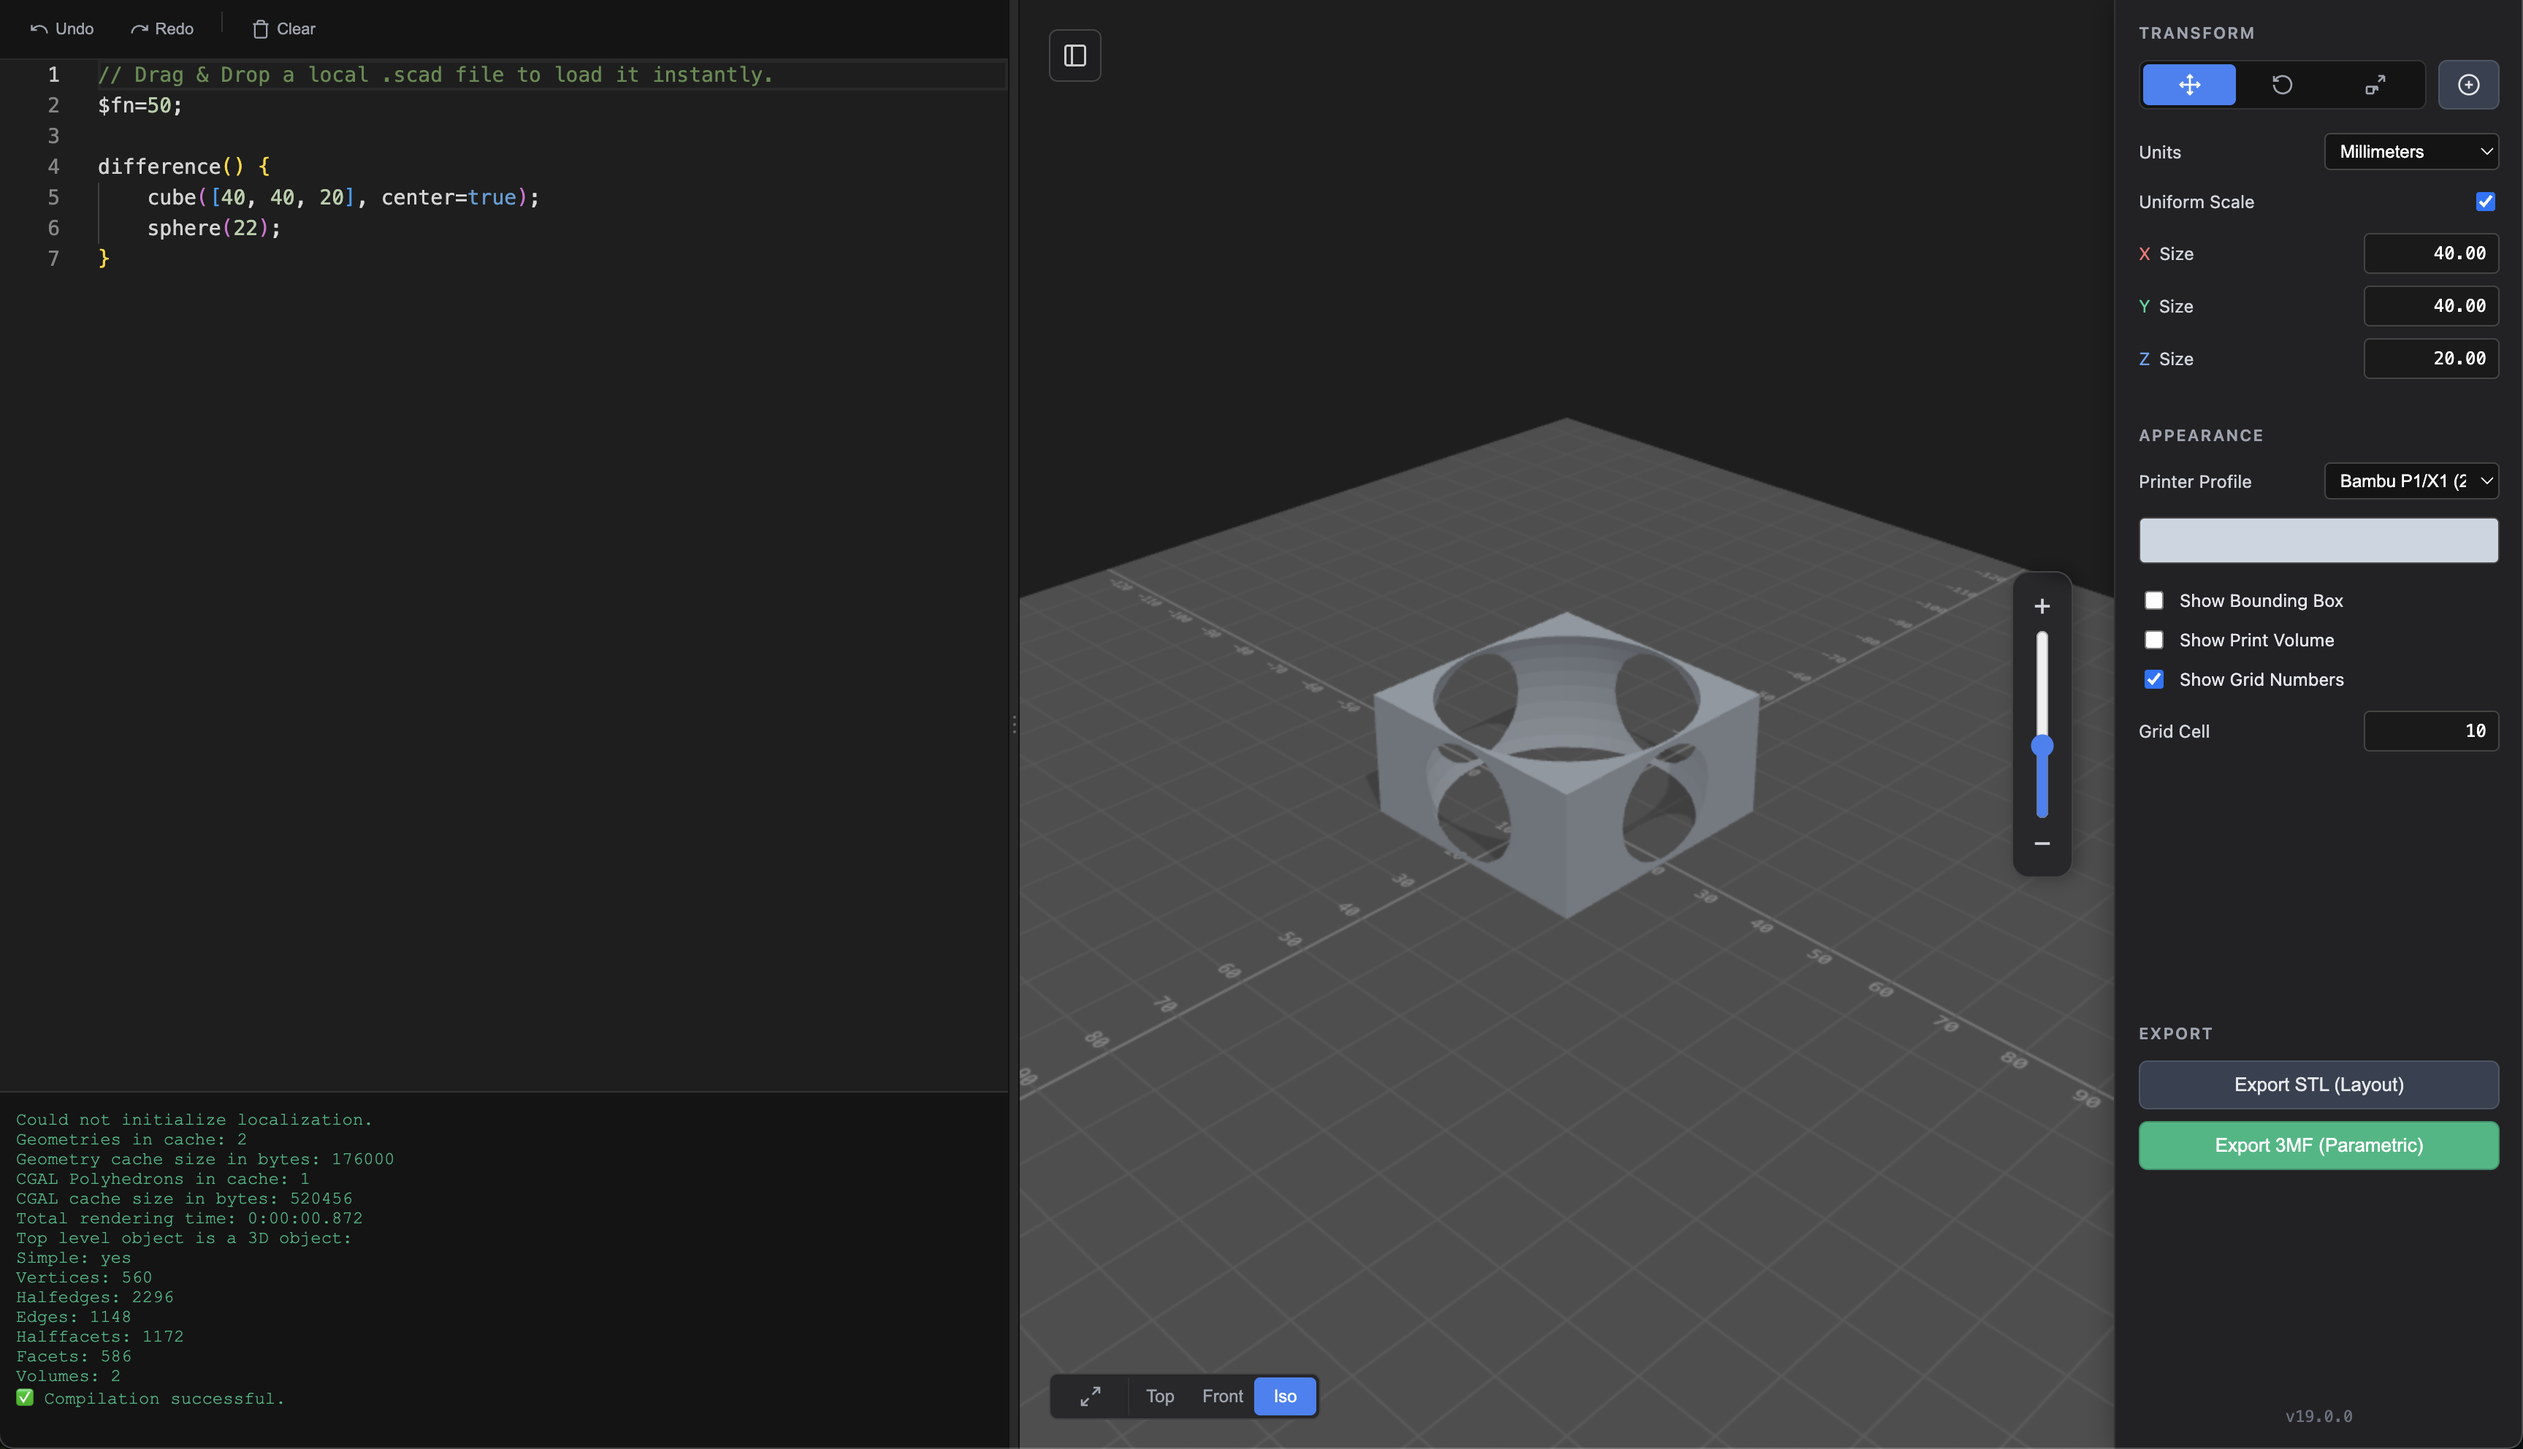
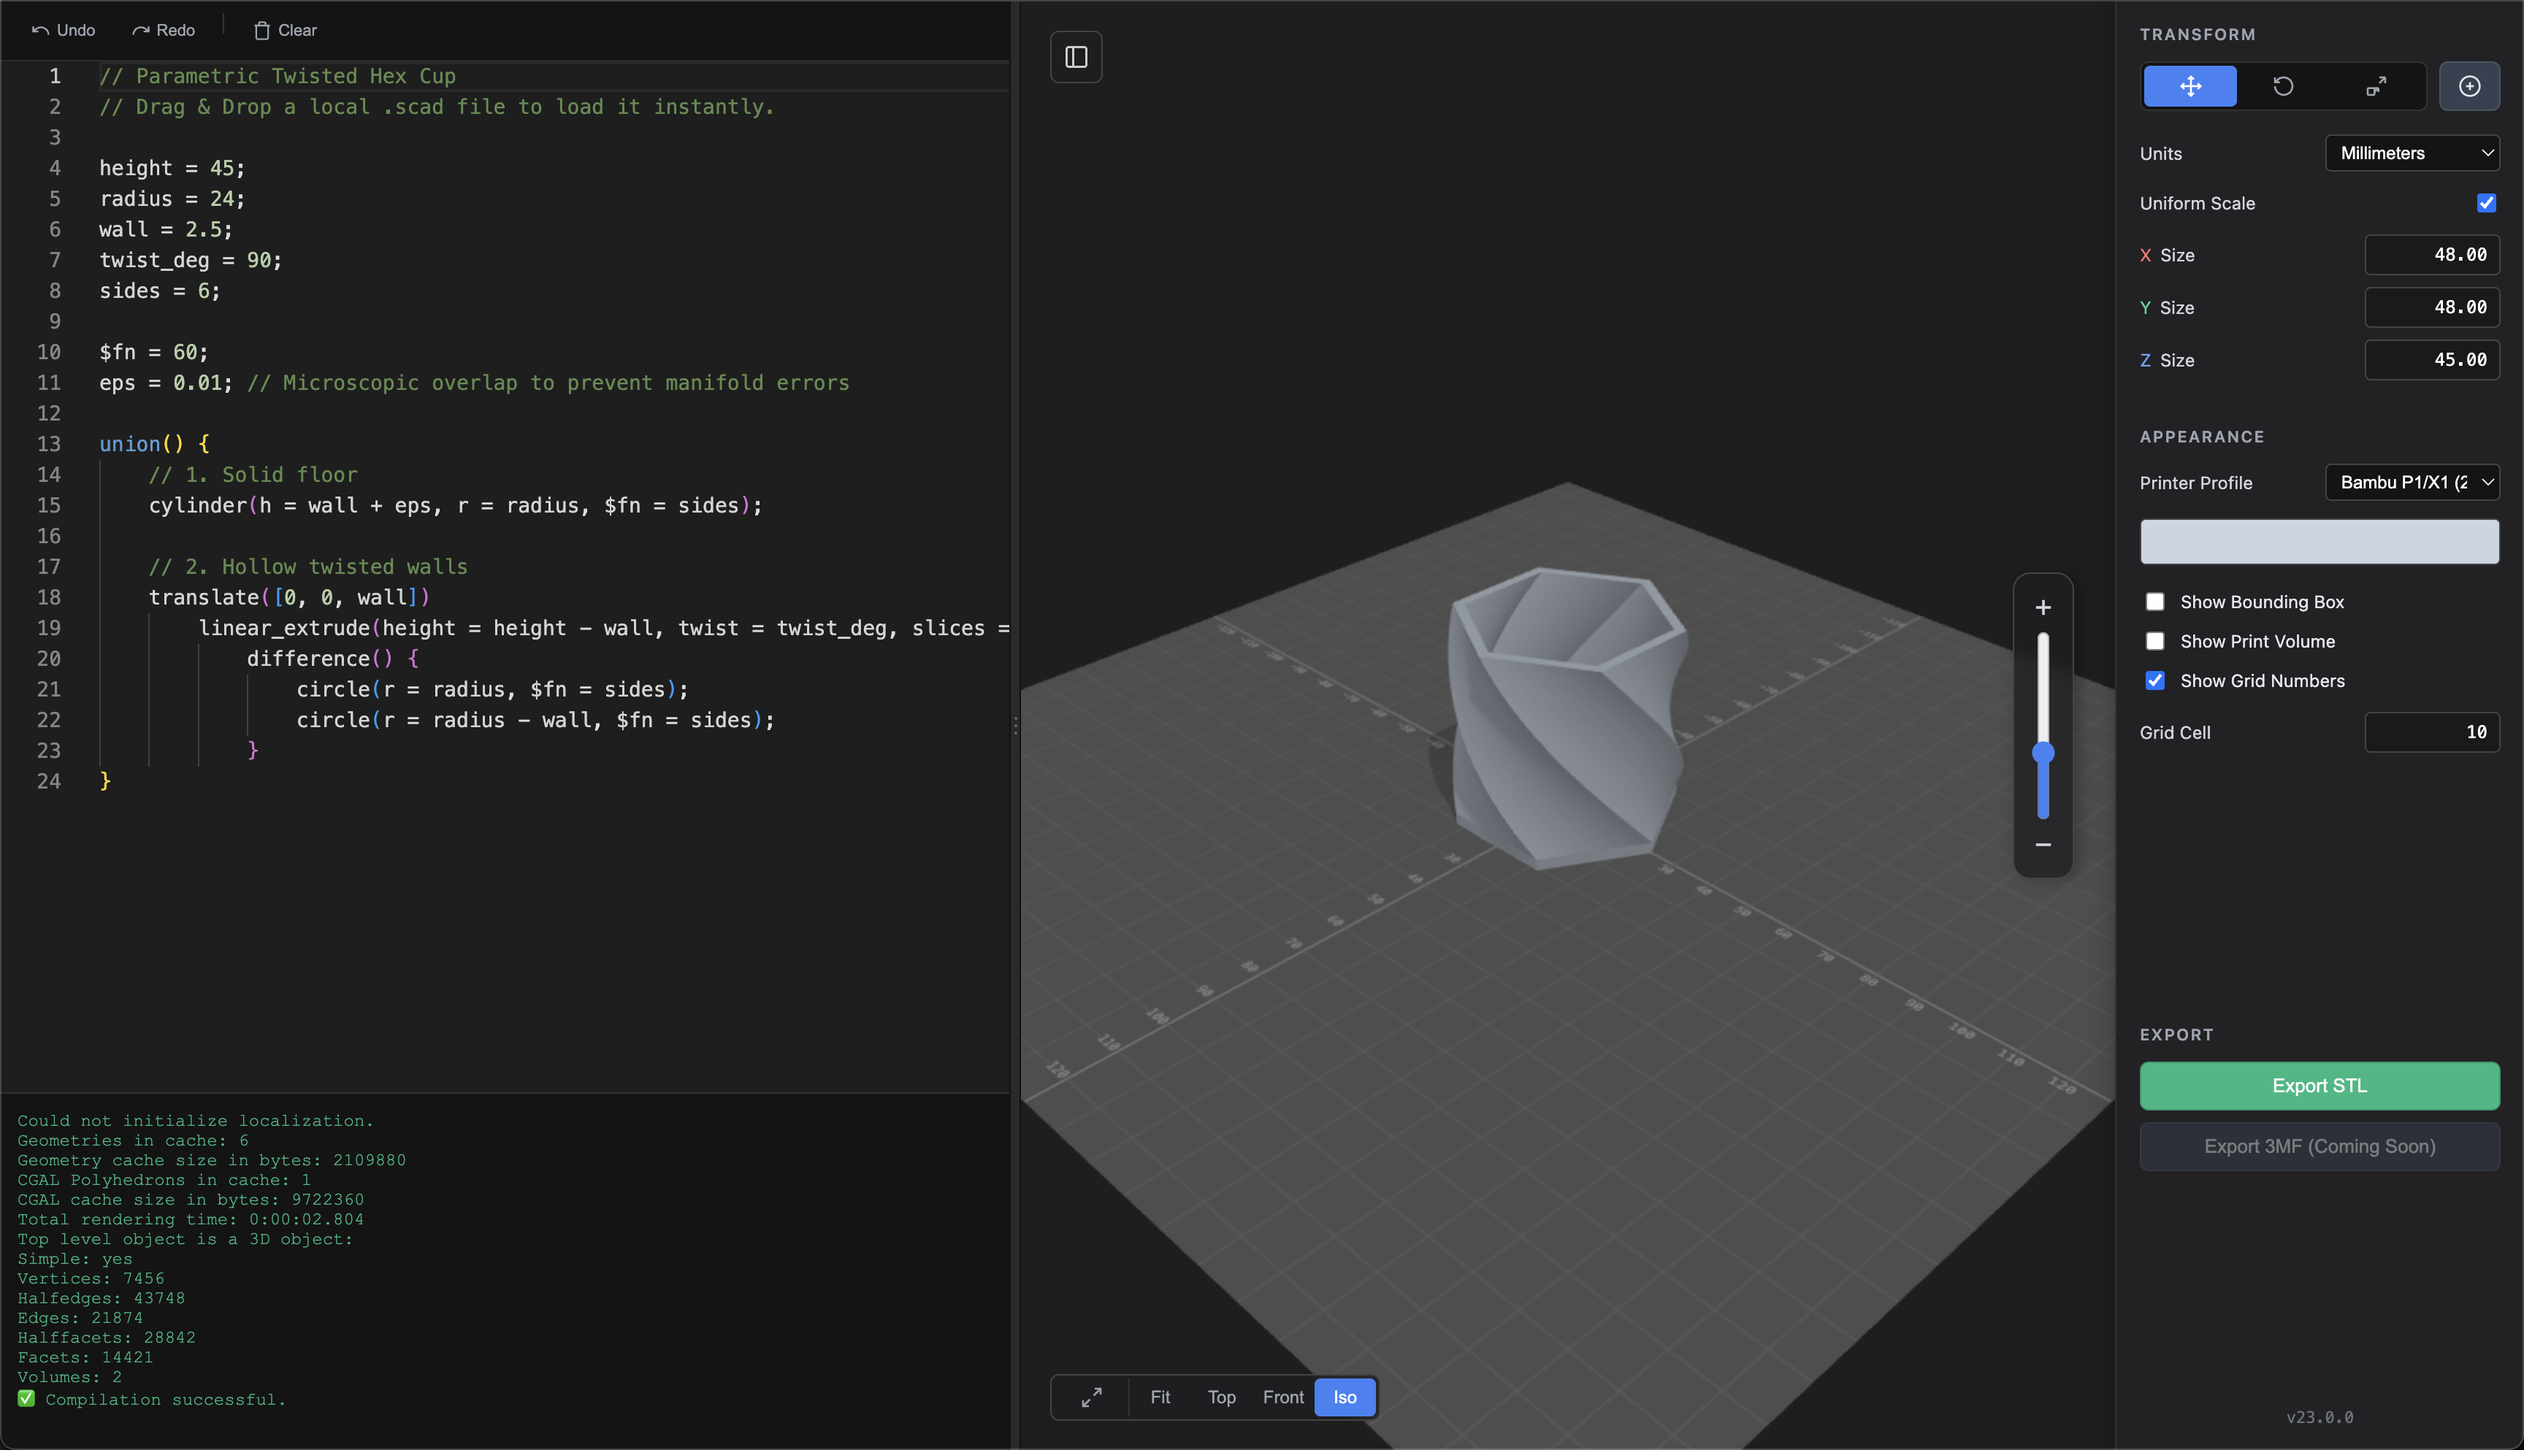
Update demo, fix zoom controls, add fit option

diff --git a/app.js b/app.js
@@ -36,10 +36,10 @@ const saveStatus = document.getElementById('save-status');
 // --- 1. Three.js Scene Setup ---
 const scene = new THREE.Scene();
 
-let cameraPersp = new THREE.PerspectiveCamera(45, wrapper.clientWidth / wrapper.clientHeight, 0.1, 2000);
-let cameraOrtho = new THREE.OrthographicCamera(wrapper.clientWidth / -4, wrapper.clientWidth / 4, wrapper.clientHeight / 4, wrapper.clientHeight / -4, 0.1, 2000);
+let cameraPersp = new THREE.PerspectiveCamera(45, wrapper.clientWidth / wrapper.clientHeight, 0.1, 3000);
+let cameraOrtho = new THREE.OrthographicCamera(wrapper.clientWidth / -4, wrapper.clientWidth / 4, wrapper.clientHeight / 4, wrapper.clientHeight / -4, 0.1, 3000);
 let camera = cameraPersp;
-camera.position.set(160, 140, 160);
+camera.position.set(220, 200, 220);
 
 const renderer = new THREE.WebGLRenderer({ antialias: true, alpha: true });
 renderer.setSize(wrapper.clientWidth, wrapper.clientHeight);
@@ -49,34 +49,77 @@ wrapper.appendChild(renderer.domElement);
 
 const orbit = new OrbitControls(camera, renderer.domElement);
 orbit.enableDamping = true;
-orbit.dampingFactor = 0.05;
+orbit.dampingFactor = 0.08;
 orbit.maxPolarAngle = Math.PI / 2 + 0.02; 
-orbit.zoomSpeed = 2.5; 
-orbit.target.set(0, 15, 0);
+orbit.zoomSpeed = 1.2; 
+orbit.minDistance = 25;
+orbit.maxDistance = 1400;
+orbit.target.set(0, 20, 0);
 
-// Camera Logic
-function syncZoomSlider() { zoomSlider.value = 420 - camera.position.distanceTo(orbit.target); }
+// Camera & Zoom Logic
+const MIN_DIST = 25;
+const MAX_DIST = 1400;
+let isDraggingZoomSlider = false;
+
+zoomSlider.addEventListener('mousedown', () => { isDraggingZoomSlider = true; });
+zoomSlider.addEventListener('touchstart', () => { isDraggingZoomSlider = true; }, { passive: true });
+window.addEventListener('mouseup', () => { isDraggingZoomSlider = false; });
+window.addEventListener('touchend', () => { isDraggingZoomSlider = false; });
+
+function syncZoomSlider() {
+    if (isDraggingZoomSlider) return;
+    let dist;
+    if (camera.isOrthographicCamera) {
+        dist = 220 / Math.max(camera.zoom, 0.01);
+    } else {
+        dist = camera.position.distanceTo(orbit.target);
+    }
+    dist = Math.min(Math.max(dist, MIN_DIST), MAX_DIST);
+    // Logarithmic scale: slider 100 = close (MIN_DIST), slider 0 = far (MAX_DIST)
+    const val = 100 - 100 * (Math.log(dist / MIN_DIST) / Math.log(MAX_DIST / MIN_DIST));
+    zoomSlider.value = Math.min(Math.max(val, 0), 100);
+}
 orbit.addEventListener('change', syncZoomSlider);
-zoomSlider.addEventListener('input', (e) => {
-    const targetDistance = 420 - parseFloat(e.target.value);
+
+function setZoomFromSlider(sliderVal) {
+    const clampedVal = Math.min(Math.max(parseFloat(sliderVal), 0), 100);
+    const targetDistance = MIN_DIST * Math.pow(MAX_DIST / MIN_DIST, (100 - clampedVal) / 100);
+    
     const direction = new THREE.Vector3().subVectors(camera.position, orbit.target).normalize();
+    if (direction.lengthSq() === 0) direction.set(1, 0.85, 1).normalize();
     camera.position.copy(orbit.target).add(direction.multiplyScalar(targetDistance));
     
     if (camera.isOrthographicCamera) {
-        camera.zoom = 250 / targetDistance;
+        camera.zoom = 220 / targetDistance;
         camera.updateProjectionMatrix();
     }
     orbit.update();
+}
+
+zoomSlider.addEventListener('input', (e) => setZoomFromSlider(e.target.value));
+
+document.getElementById('btn-zoom-in')?.addEventListener('click', () => {
+    const currentVal = parseFloat(zoomSlider.value);
+    const newVal = Math.min(currentVal + 12, 100);
+    zoomSlider.value = newVal;
+    setZoomFromSlider(newVal);
+});
+
+document.getElementById('btn-zoom-out')?.addEventListener('click', () => {
+    const currentVal = parseFloat(zoomSlider.value);
+    const newVal = Math.max(currentVal - 12, 0);
+    zoomSlider.value = newVal;
+    setZoomFromSlider(newVal);
 });
 
 document.getElementById('btn-cam-lens').addEventListener('click', () => {
     const currentPos = camera.position.clone();
     const currentTarget = orbit.target.clone();
+    const dist = currentPos.distanceTo(currentTarget);
     
     if (camera.isPerspectiveCamera) {
         camera = cameraOrtho;
-        const dist = currentPos.distanceTo(currentTarget);
-        camera.zoom = 250 / dist;
+        camera.zoom = 220 / Math.max(dist, 10);
     } else {
         camera = cameraPersp;
     }
@@ -90,23 +133,60 @@ document.getElementById('btn-cam-lens').addEventListener('click', () => {
     
     transformControl.camera = camera;
     document.getElementById('btn-cam-lens').style.color = camera.isOrthographicCamera ? '#3b82f6' : '#9ca3af';
+    syncZoomSlider();
 });
 
 function setCameraPreset(x, y, z, tx, ty, tz, btnId) {
     camera.position.set(x, y, z);
     orbit.target.set(tx, ty, tz);
     if (camera.isOrthographicCamera) {
-        camera.zoom = 1;
+        const dist = camera.position.distanceTo(orbit.target);
+        camera.zoom = 220 / dist;
         camera.updateProjectionMatrix();
     }
     orbit.update();
     syncZoomSlider();
     document.querySelectorAll('#camera-presets button:not(#btn-cam-lens)').forEach(b => b.classList.remove('active'));
-    document.getElementById(btnId).classList.add('active');
+    if (btnId) document.getElementById(btnId)?.classList.add('active');
 }
-document.getElementById('btn-cam-top').addEventListener('click', () => setCameraPreset(0, 250, 0, 0, 0, 0, 'btn-cam-top'));
-document.getElementById('btn-cam-front').addEventListener('click', () => setCameraPreset(0, 15, 250, 0, 15, 0, 'btn-cam-front'));
-document.getElementById('btn-cam-iso').addEventListener('click', () => setCameraPreset(160, 140, 160, 0, 15, 0, 'btn-cam-iso'));
+
+function fitCameraToObject() {
+    const targetBox = new THREE.Box3();
+    if (currentMesh && currentMesh.geometry) {
+        targetBox.setFromObject(currentMesh);
+    } else {
+        targetBox.setFromCenterAndSize(new THREE.Vector3(0, 0, 0), new THREE.Vector3(printX, 20, printY));
+    }
+    
+    const size = new THREE.Vector3();
+    const center = new THREE.Vector3();
+    targetBox.getSize(size);
+    targetBox.getCenter(center);
+    
+    const maxDim = Math.max(size.x, size.y, size.z, 60);
+    const fov = cameraPersp.fov * (Math.PI / 180);
+    let cameraDistance = Math.abs(maxDim / 2 / Math.tan(fov / 2)) * 1.8;
+    cameraDistance = Math.max(cameraDistance, 140);
+    
+    orbit.target.copy(center);
+    
+    const dir = new THREE.Vector3(1, 0.85, 1).normalize();
+    camera.position.copy(center).add(dir.multiplyScalar(cameraDistance));
+    
+    if (camera.isOrthographicCamera) {
+        camera.zoom = 220 / cameraDistance;
+        camera.updateProjectionMatrix();
+    }
+    orbit.update();
+    syncZoomSlider();
+    document.querySelectorAll('#camera-presets button:not(#btn-cam-lens)').forEach(b => b.classList.remove('active'));
+    document.getElementById('btn-cam-fit')?.classList.add('active');
+}
+
+document.getElementById('btn-cam-fit')?.addEventListener('click', fitCameraToObject);
+document.getElementById('btn-cam-top').addEventListener('click', () => setCameraPreset(0, 360, 0, 0, 0, 0, 'btn-cam-top'));
+document.getElementById('btn-cam-front').addEventListener('click', () => setCameraPreset(0, 25, 360, 0, 25, 0, 'btn-cam-front'));
+document.getElementById('btn-cam-iso').addEventListener('click', () => setCameraPreset(220, 200, 220, 0, 25, 0, 'btn-cam-iso'));
 
 
 // --- 2. Professional Gizmos ---
@@ -613,6 +693,7 @@ window.addEventListener('keydown', (e) => {
     if (e.key.toLowerCase() === 'r') setGizmoMode('rotate', 'btn-mode-rotate');
     if (e.key.toLowerCase() === 's') setGizmoMode('scale', 'btn-mode-scale');
     if (e.key.toLowerCase() === 'c') centerMeshOnBed(e.shiftKey);
+    if (e.key.toLowerCase() === 'f') fitCameraToObject();
 });
 
 colorPicker.addEventListener('input', (e) => {
@@ -677,10 +758,13 @@ require(['vs/editor/editor.main'], function() {
     
     const LOCAL_STORAGE_KEY = 'openscad-studio-saved-code';
     const savedCode = localStorage.getItem(LOCAL_STORAGE_KEY);
-    const defaultCode = `// Drag & Drop a local .scad file to load it instantly.\n$fn=50;\n\ndifference() {\n    cube([40, 40, 20], center=true);\n    sphere(22);\n}`;
+    const defaultCode = `// Parametric Twisted Hex Cup\n// Drag & Drop a local .scad file to load it instantly.\n\nheight = 45;\nradius = 24;\nwall = 2.5;\ntwist_deg = 90;\nsides = 6;\n\n$fn = 60;\neps = 0.01; // Microscopic overlap to prevent manifold errors\n\nunion() {\n    // 1. Solid floor\n    cylinder(h = wall + eps, r = radius, $fn = sides);\n\n    // 2. Hollow twisted walls\n    translate([0, 0, wall])\n        linear_extrude(height = height - wall, twist = twist_deg, slices = 60)\n            difference() {\n                circle(r = radius, $fn = sides);\n                circle(r = radius - wall, $fn = sides);\n            }\n}`;
+
+    const oldDefaultPattern = 'difference() {\n    cube([40, 40, 20], center=true);';
+    const initialCode = (savedCode === null || savedCode.includes(oldDefaultPattern)) ? defaultCode : savedCode;
 
     editor = monaco.editor.create(document.getElementById('editor-container'), {
-        value: savedCode !== null ? savedCode : defaultCode,
+        value: initialCode,
         language: 'cpp', theme: 'vs-dark', minimap: { enabled: false }, fontSize: 14
     });
 

diff --git a/index.html b/index.html
@@ -62,7 +62,7 @@
         #btn-toggle-editor { top: 20px; left: 20px; }
 
         #camera-presets {
-            position: absolute; bottom: 20px; left: 20px; z-index: 10; width: 180px;
+            position: absolute; bottom: 20px; left: 20px; z-index: 10; width: 220px;
             background: rgba(30,30,32,0.8); backdrop-filter: blur(4px); border: 1px solid #444;
         }
 
@@ -182,17 +182,18 @@
                 <button id="btn-cam-lens" title="Toggle Orthographic / Perspective" style="border-right: 1px solid #333; border-radius: 4px 0 0 4px; padding: 0 4px;">
                     <svg viewBox="0 0 24 24" fill="none" stroke="currentColor" stroke-width="2"><path d="M15 3h6v6"></path><path d="M9 21H3v-6"></path><path d="M21 3l-7 7"></path><path d="M3 21l7-7"></path></svg>
                 </button>
+                <button id="btn-cam-fit" title="Zoom to Fit Model (F)">Fit</button>
                 <button id="btn-cam-top" title="Top View">Top</button>
                 <button id="btn-cam-front" title="Front View">Front</button>
                 <button id="btn-cam-iso" class="active" title="Isometric View">Iso</button>
             </div>
 
             <div id="zoom-slider-container">
-                <div class="zoom-icon" title="Zoom Out">
+                <div class="zoom-icon" id="btn-zoom-out" title="Zoom Out (-)" style="cursor: pointer;">
                     <svg viewBox="0 0 24 24" fill="none" stroke="currentColor" stroke-width="2.5"><line x1="5" y1="12" x2="19" y2="12"></line></svg>
                 </div>
-                <input type="range" id="zoom-slider" min="20" max="400" value="160">
-                <div class="zoom-icon" title="Zoom In">
+                <input type="range" id="zoom-slider" min="0" max="100" value="50" step="any">
+                <div class="zoom-icon" id="btn-zoom-in" title="Zoom In (+)" style="cursor: pointer;">
                     <svg viewBox="0 0 24 24" fill="none" stroke="currentColor" stroke-width="2.5"><line x1="12" y1="5" x2="12" y2="19"></line><line x1="5" y1="12" x2="19" y2="12"></line></svg>
                 </div>
             </div>
@@ -284,11 +285,11 @@
                 <button id="btn-export-3mf" class="action-btn" disabled style="opacity: 0.45; cursor: not-allowed;" title="3MF export is coming soon">Export 3MF (Coming Soon)</button>
             </div>
 
-            <div id="version-badge">v21.0.0</div>
+            <div id="version-badge">v23.0.0</div>
         </div>
     </div>
 
-    <script type="module" src="app.js?v=21"></script>
+    <script type="module" src="app.js?v=23"></script>
     <!-- Cloudflare Web Analytics -->
     <script type='module' src='https://static.cloudflareinsights.com/beacon.min.js' data-cf-beacon='{"token": "e270c300833e45709e88b33c45817f10"}'></script><!-- End Cloudflare Web Analytics -->
 </body>
